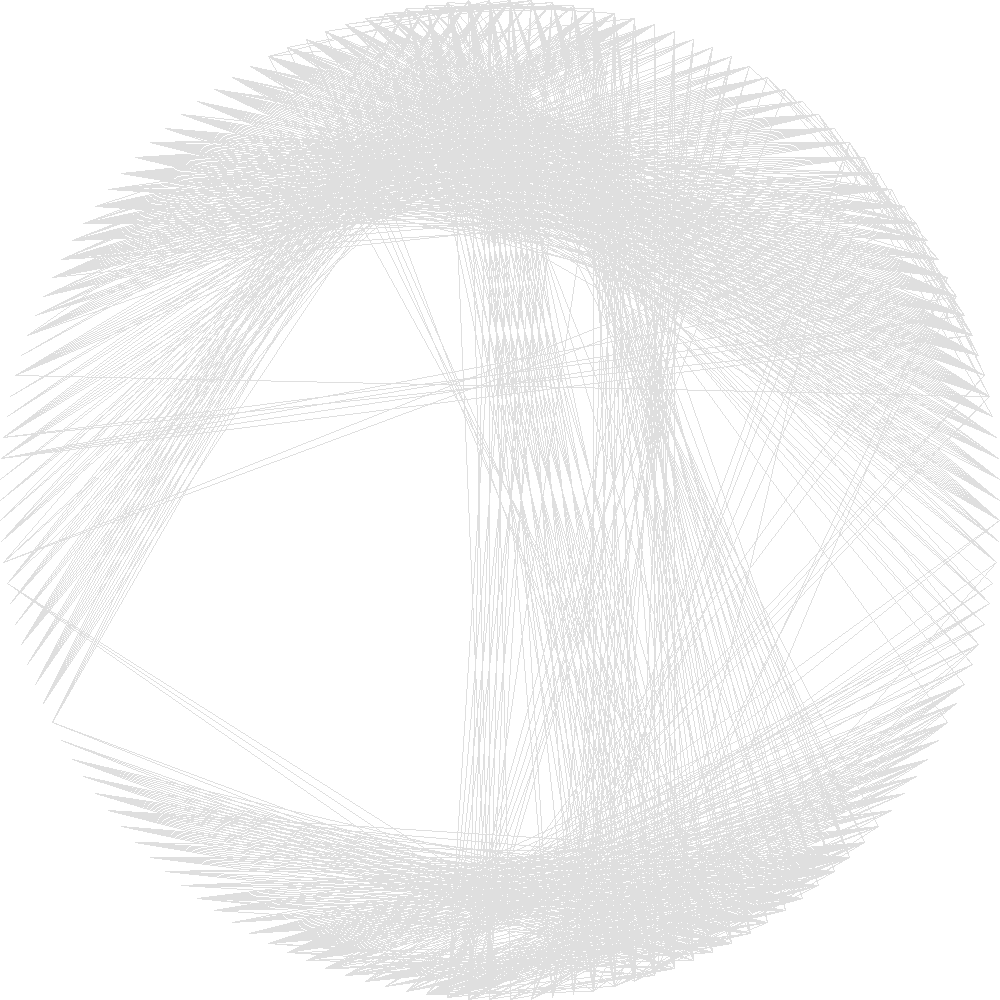
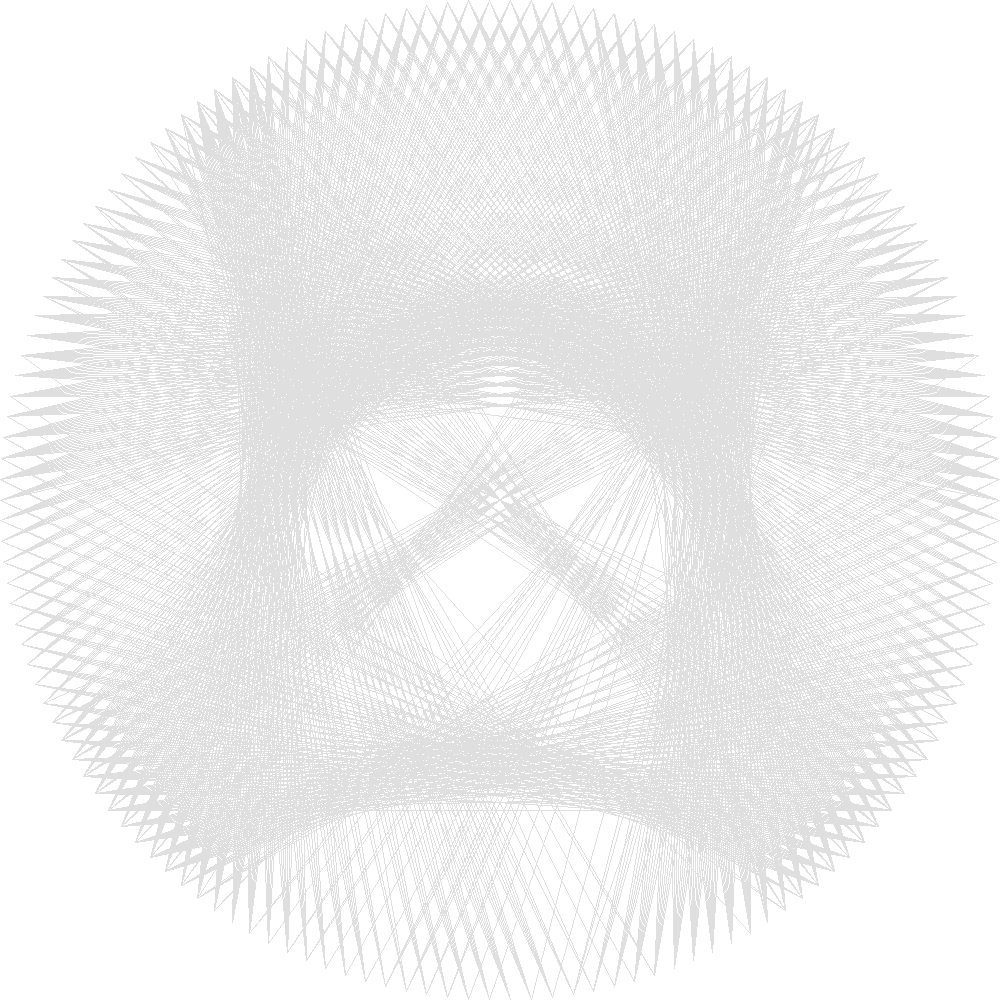
ok now
hg

diff --git a/StringTest.py b/StringTest.py
@@ -264,13 +264,13 @@ stringsSlider = tk.Scale(root, from_=1, to=10000, orient=tk.HORIZONTAL, command=
 stringsSlider.pack(padx=20, pady=5)
 labelString = tk.Label(root, text="Amount of String(s): 1")
 labelString.pack(side=tk.TOP, padx=10, pady=5)
-stringsSlider.set(500)
+stringsSlider.set(1250)
 
 stringLSlider = tk.Scale(root, from_=0, to=1000, orient=tk.HORIZONTAL, command=updateStringLength, length = 400)
 stringLSlider.pack(padx=20, pady=5)
 labelStringL = tk.Label(root, text="Min Length of String(s): 0")
 labelStringL.pack(side=tk.TOP, padx=10, pady=5)
-stringLSlider.set(150)
+stringLSlider.set(100)
 
 def toggle():
     global randomOn
